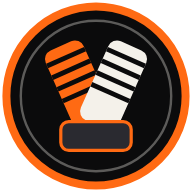
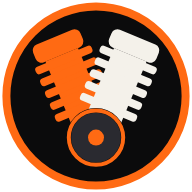
Add files via upload

Changed region(s): [[0.0938, 0.0938, 0.9062, 0.9062], [0.6875, 0.6875, 0.8438, 0.8438], [0.1562, 0.6875, 0.3125, 0.8438]]

diff --git a/index.html b/index.html
@@ -153,7 +153,7 @@ button{font:inherit;color:inherit;background:none;border:0;cursor:pointer}
 
 #splash{display:flex;flex-direction:column;align-items:center;justify-content:center;text-align:center;padding:32px;background:radial-gradient(ellipse at 50% 35%,#24140a 0%,#0b0b0c 65%);transition:opacity .5s}
 #splash.hide{opacity:0;pointer-events:none}
-.splash-logo{width:120px;height:120px}
+.splash-logo{width:150px;height:150px}
 .splash-name{font-family:var(--disp);font-size:56px;letter-spacing:6px;margin-top:10px;line-height:1}
 .splash-sub{font-family:var(--cond);font-weight:600;letter-spacing:8px;color:var(--orange);font-size:16px}
 .quote{font-family:var(--cond);font-weight:600;font-size:30px;line-height:1.2;max-width:380px;margin-top:48px;position:relative;padding-top:28px}
@@ -208,7 +208,7 @@ button{font:inherit;color:inherit;background:none;border:0;cursor:pointer}
 
 <div class="overlay" id="ride">
   <div class="ride-top">
-    <div class="brand"><svg width="40" height="40" viewBox="0 0 120 120" class="mini-logo"></svg><div class="brand-txt"><div class="brand-name" style="font-size:22px">FAHRMODUS</div></div></div>
+    <div class="brand"><svg width="48" height="48" viewBox="0 0 120 120" class="mini-logo"></svg><div class="brand-txt"><div class="brand-name" style="font-size:22px">FAHRMODUS</div></div></div>
     <button class="ride-close" id="rideClose">ZURÜCK</button>
   </div>
   <div class="ride-clock" id="rideClock">--:--</div>
@@ -251,7 +251,7 @@ button{font:inherit;color:inherit;background:none;border:0;cursor:pointer}
 <div class="app">
   <header class="top">
     <div class="brand">
-      <svg width="46" height="46" viewBox="0 0 120 120" class="mini-logo"></svg>
+      <svg width="54" height="54" viewBox="0 0 120 120" class="mini-logo"></svg>
       <div class="brand-txt"><div class="brand-name">KRAFTPILOT</div><div class="brand-sub">FAHRWETTER</div></div>
     </div>
     <div class="top-right">
@@ -325,7 +325,7 @@ button{font:inherit;color:inherit;background:none;border:0;cursor:pointer}
   <div class="foot">
     Wetterdaten: <a href="https://open-meteo.com/" target="_blank" rel="noopener">Open-Meteo.com</a> (CC BY 4.0)<br>
     Ortsnamen: Open-Meteo Geocoding · BigDataCloud<br>
-    Design by <b>KRAFTPILOT Design</b> · v1.4
+    Design by <b>KRAFTPILOT Design</b> · v1.5
   </div>
 </div>
 
@@ -394,11 +394,20 @@ const keyDay = d => keyHour(d).slice(0,10);
 
 /* ================= Logo ================= */
 function logoSVG(){
-  const cyl=(rot,fill)=>`<g transform="rotate(${rot} 60 78)"><rect x="47" y="24" width="26" height="54" rx="6" fill="${fill}"/><g stroke="#0b0b0c" stroke-width="3">${[32,40,48,56].map(y=>`<line x1="47" y1="${y}" x2="73" y2="${y}"/>`).join("")}</g></g>`;
+  // V2-Motor im 45°-Winkel: zwei verrippte Zylinder auf rundem Kurbelgehäuse
+  const cyl=(rot,fill)=>{
+    let fins=""; for(let i=0;i<5;i++){ fins+=`<rect x="41" y="${31+i*8}" width="38" height="5" rx="2" fill="${fill}"/>`; }
+    return `<g transform="rotate(${rot} 60 86)">
+      <rect x="49" y="30" width="22" height="50" fill="${fill}"/>
+      ${fins}
+      <rect x="44" y="18" width="32" height="12" rx="4" fill="${fill}"/>
+    </g>`;
+  };
   return `<circle cx="60" cy="60" r="56" fill="#0b0b0c" stroke="#ff6a13" stroke-width="5"/>
-  <circle cx="60" cy="60" r="47" fill="none" stroke="#f4f1ea" stroke-width="1.5" opacity=".35"/>
-  ${cyl(-24,"#ff6a13")}${cyl(24,"#f4f1ea")}
-  <rect x="38" y="76" width="44" height="18" rx="5" fill="#2a2a30" stroke="#ff6a13" stroke-width="2"/>`;
+  ${cyl(-22.5,"#ff6a13")}${cyl(22.5,"#f4f1ea")}
+  <circle cx="60" cy="86" r="17" fill="#2a2a30" stroke="#0b0b0c" stroke-width="3"/>
+  <circle cx="60" cy="86" r="17" fill="none" stroke="#ff6a13" stroke-width="2.5"/>
+  <circle cx="60" cy="86" r="5" fill="#ff6a13"/>`;
 }
 
 /* ================= Wetter-Symbole ================= */
@@ -879,7 +888,7 @@ load().then(res=>{
   hideSplash();
 });
 
-if("serviceWorker" in navigator && location.protocol==="https:"){
+if("serviceWorker" in navigator && (location.protocol==="https:"||location.hostname==="localhost")){
   window.addEventListener("load",()=>{ navigator.serviceWorker.register("sw.js").catch(()=>{}); });
 }
 </script>

diff --git a/sw.js b/sw.js
@@ -1,0 +1,25 @@
+/* KRAFTPILOT Fahrwetter – Service Worker: App installierbar + läuft auch ohne Netz */
+const VERSION = "kp-v1.5";
+const SHELL = [
+  "./", "./index.html", "./manifest.webmanifest",
+  "./icons/icon-192.png", "./icons/icon-512.png", "./icons/icon-maskable-512.png"
+];
+self.addEventListener("install", e => {
+  e.waitUntil(caches.open(VERSION).then(c => c.addAll(SHELL)).then(() => self.skipWaiting()));
+});
+self.addEventListener("activate", e => {
+  e.waitUntil(caches.keys().then(keys => Promise.all(keys.filter(k => k !== VERSION).map(k => caches.delete(k)))).then(() => self.clients.claim()));
+});
+self.addEventListener("fetch", e => {
+  const url = new URL(e.request.url);
+  if (e.request.method !== "GET" || url.origin !== location.origin) return; // Wetterdaten immer live
+  if (e.request.mode === "navigate") {
+    // Seite: erst Netz (für Updates), sonst gespeicherte Version
+    e.respondWith(fetch(e.request).then(r => { const copy = r.clone(); caches.open(VERSION).then(c => c.put("./index.html", copy)); return r; })
+      .catch(() => caches.match("./index.html")));
+    return;
+  }
+  // Icons & Co.: erst Netz, sonst gespeicherte Version (so kommen neue Icons sofort an)
+  e.respondWith(fetch(e.request).then(r => { const copy = r.clone(); caches.open(VERSION).then(c => c.put(e.request, copy)); return r; })
+    .catch(() => caches.match(e.request)));
+});

diff --git a/ANLEITUNG.md b/ANLEITUNG.md
@@ -1,4 +1,4 @@
-# KRAFTPILOT Fahrwetter – v1.4
+# KRAFTPILOT Fahrwetter – v1.5
 
 Wetter-App für Motorradfahrer, weltweit nutzbar.
 Läuft auf Android als App auf dem Startbildschirm (eine Web-App, die man installieren kann).
@@ -27,8 +27,8 @@ Die App braucht eine **https-Adresse**, damit Android sie installieren kann und 
 **Variante B – GitHub Pages**
 Ordnerinhalt in ein GitHub-Repository hochladen → Settings → Pages → Branch „main“ wählen.
 
-**Update später:** Dateien ersetzen und neu hochladen. In `sw.js` die Zeile `const VERSION = "kp-v1.4"`
-hochzählen (z. B. `kp-v1.5`), dann holt sich jedes Handy die neue Version automatisch.
+**Update später:** Dateien ersetzen und neu hochladen. In `sw.js` die Zeile `const VERSION = "kp-v1.5"`
+hochzählen (z. B. `kp-v1.6`), dann holt sich jedes Handy die neue Version automatisch.
 
 ## 2. Auf dem Android-Handy installieren (für dich und die Clique)
 
